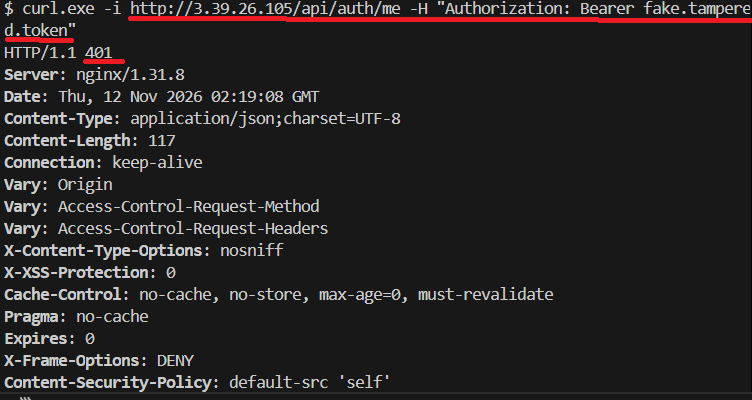
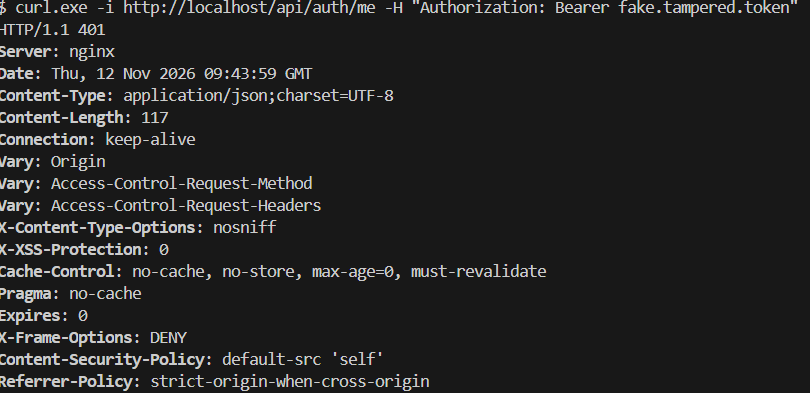
docs(security): 9.보안점검서 Backend 증빙 링크 연결 및 B-7·nginx 숨김 캡처 현행화
- B-3~B-9, B-12 표 및 6.4~6.6 상세에 증빙 이미지 링크 연결

Changed region(s): [[0.0, 0.0, 1.0, 1.0]]

diff --git a/docs/9.보안점검서.md b/docs/9.보안점검서.md
@@ -20,7 +20,7 @@
 | B-4  | Refresh Token 관리     | 폐기·재발급·DB 저장 방식 및 재사용 일괄 폐기 동작 확인                                                                                                                                                                 | 발견 → 조치 (6.5) | `RefreshTokenService.java`, `AuthService.java`: 원문 대신 SHA-256 해시(`token_hash`)만 DB 저장 및 재발급 시 기존 토큰 폐기(`revoked_at`, Rotation). 점검 중 폐기 토큰 재사용 감지 시 `BusinessException` 발생으로 `revokeAllByMemberId`가 롤백되던 결함과 컨테이너 UTC/KST 9시간 만료 오차 발견 → `noRollbackFor = BusinessException.class`, `flush()`, `LocalDateTime.now(KST)`로 수정                                                                                                                             | ☑ (DB `token_hash`·`revoked_at` 확인, `SecurityAuditTest`)<br>증거: [B-4-01](images/security/B-4/B-4-01_reuse-detected-401-and-log.png) |
 | B-5  | 로그인 Brute Force     | 동일 계정 연속 오입력 및 미등록 계정 로그인 시도                                                                                                                                                                       | 발견 → 조치 (6.4) | `AuthService.java`, `Member.java`: 1~4회 실패 시 `401`(`remainingAttempts: 4→1`), 5회 연속 실패 시 15분간 계정 잠금(`locked_until`, `423 AUTH_LOCKED`). 점검 중 예외 발생 시 `@Transactional` 롤백으로 실패 횟수가 DB에 누적되지 않던 결함과 컨테이너 UTC/KST 타임존 오차 발견 → `noRollbackFor` 지정 및 `LocalDateTime.now(KST)`로 수정. 미등록 계정도 `DUMMY_BCRYPT_HASH` 연산을 수행해 계정 열거·Timing Attack 방어                                                                                              | ☑ (브라우저·DB·로그 확인, `SecurityAuditTest`, `AuthServiceTest`)<br>증거: [B-5-01](images/security/B-5/B-5-01_login-fail-remaining-attempts.png), [B-5-02](images/security/B-5/B-5-02_login-fail-remaining-attempts.png), [B-5-03](images/security/B-5/B-5-03_login-fail-remaining-attempts.png), [B-5-04](images/security/B-5/B-5-04_login-fail-remaining-attempts.png), [B-5-05](images/security/B-5/B-5-05_account-locked-423.png) |
 | B-6  | CSRF                   | 세션+쿠키 방식 사용 시 CSRF 토큰 및 쿠키 속성 확인                                                                                                                                                                     | 미발견            | `SecurityConfig.java`, `AuthController.java`: 세션을 사용하지 않는 `STATELESS` 구조로 Access Token은 `Authorization: Bearer` 헤더로만 인증하여 CSRF 비활성화. Refresh Token 쿠키(`baton_rt`)는 `HttpOnly=true`, `SameSite=Strict`, 쿠키 범위를 `Path=/api/auth`로 한정하고 재발급은 `POST /api/auth/refresh`만 허용하여 교차 사이트 요청 위조 차단                                                                                                                                                                  | ☑ (DevTools 쿠키 속성 확인, `AuthControllerTest`)<br>증거: [B-6-01](images/security/B-6/B-6-01_cookie-httponly-samesite-strict.png) |
-| B-7  | 보안 설정 오류         | Actuator 노출(`/actuator/env`, `/health`), 상세 에러 노출, CORS 범위 점검                                                                                                                                              | 미발견            | `SecurityConfig.java`, `application.yml`: `exposure.include: health` 및 `show-details: never`로 최소 생존 상태만 공개하고 `/actuator/health` 외 모든 `/actuator/**`는 `.denyAll()` 차단. CORS는 `cors.allowed-origins` 환경변수 화이트리스트만 허용(외부 Origin `403 Invalid CORS request`). 백엔드 API 응답(`/api/*`) 기준 `X-Frame-Options: DENY`, `nosniff`, `CSP: default-src 'self'`, `Referrer-Policy` 헤더 적용                                                                                              | ☑ (`curl` 백엔드 `:8080` 직접 호출 `/actuator/env` 401·`health` 200, 프록시 CORS 403 확인)<br>증거: [B-7-01](images/security/B-7/B-7-01_cors-evil-origin-403.png) |
+| B-7  | 보안 설정 오류         | Actuator 노출(`/actuator/env`, `/health`), 상세 에러 노출, CORS 범위 점검                                                                                                                                              | 미발견            | `SecurityConfig.java`, `application.yml`: `exposure.include: health` 및 `show-details: never`로 최소 생존 상태만 공개하고 `/actuator/health` 외 모든 `/actuator/**`는 `.denyAll()` 차단. CORS는 `cors.allowed-origins` 환경변수 화이트리스트만 허용(외부 Origin `403 Invalid CORS request`). 백엔드 API 응답(`/api/*`) 기준 `X-Frame-Options: DENY`, `nosniff`, `CSP: default-src 'self'`, `Referrer-Policy` 헤더 적용                                                                                              | ☑ (`curl` 백엔드 `:8080` 직접 호출 `/actuator/env` 401·`health` 200, 프록시 CORS 403 확인)<br>증거: [B-7-01](images/security/B-7/B-7-01_cors-evil-origin-403.png), [B-7-02](images/security/B-7/B-7-02_actuator-health-env.png) |
 | B-8  | 예외 / 로그            | 비정상 JSON(`{broken_json}`) 전송 및 예외 발생 시 스택 트레이스 노출·상태코드 점검                                                                                                                                     | 발견 → 조치 (6.6) | `GlobalExceptionHandler.java`: 미처리 예외(`Exception.class`) 시 스택 트레이스는 서버 로그(`[SYSTEM_ERROR]`)에만 기록하고 클라이언트에는 일반 메시지만 반환. 점검 중 깨진 JSON 전송 시 `HttpMessageNotReadableException` 핸들러 누락으로 `400` 대신 `500 INTERNAL_ERROR`가 반환되던 결함 발견 → 전용 핸들러를 추가해 `400 VALIDATION_FAILED`로 응답하도록 수정                                                                                                                                                      | ☑ (`curl` 응답 스택트레이스 미노출 및 `GlobalExceptionHandlerTest` 400 확인)<br>증거: [B-8-01](images/security/B-8/B-8-01_broken-json-400-no-stacktrace.png), [B-8-02](images/security/B-8/B-8-02_500-no-stacktrace-code.png) |
 | B-9  | 감사 로그              | 로그인 성공/실패, 계정 잠금, 401/403 및 도메인 접근 거부 로깅·마스킹 확인                                                                                                                                              | 미발견            | `AuthService.java`, `RefreshTokenService.java`, `SecurityConfig.java`, `DocumentService.java`, `ChatStreamService.java`, `SourceRevalidator.java`: 인증 이벤트(`LOGIN_SUCCESS`, `LOGIN_FAILED`, `ACCOUNT_LOCKED`, `REFRESH_TOKEN_REUSE_DETECTED`, `401/403`) 및 도메인 이벤트(`DOC_ACCESS_DENIED`, `DOC_DOWNLOAD`, `SESSION_NOT_FOUND_OR_DENIED`, `SOURCE_FILTERED`)를 `[AUDIT]` 태그로 기록하고 이메일은 `AuthService.maskEmail()`로 마스킹(`s***@baton.local`) 처리                                               | ☑ (`docker logs` `[AUDIT]` 및 마스킹 확인, `AuthServiceTest`)<br>증거: [B-9-01](images/security/B-9/B-9-01_audit-logs-masked.png) |
 | B-10 | (권장) 파일 업로드     | 텍스트를 `.pdf`로 위장, `report.pdf.exe`, Burp로 Content-Type 위조, 12MB 파일, 파일명 `../../evil.docx`·`<script>a.docx`, 가짜 개인정보가 든 DOCX 업로드                                                               | 미발견            | `FileValidator` 4단계: ① 파일명 정제(경로·제어문자·금지문자 제거, 255자) ② 마지막 확장자 화이트리스트(pdf·docx) ③ Content-Type 확인 ④ Apache Tika 매직넘버<br>크기 3중 제한: nginx `client_max_body_size 10m` → Spring multipart 10MB → `FileValidator` 10MB<br>저장 경로·파일명 재생성: **해당 없음**(원본 파일을 디스크에 저장하지 않고 메모리로 AI 모듈에 전달)<br>AI 수집 단계에서 임베딩 전 개인정보 마스킹                                                                                                    | ☑ B-10-01~06<br>`FileValidatorTest` 12건<br>tika-core 3.2.2 상향 후 재실행: 동일 결과 확인([B-13-04](images/security/B-13/B-13-04_file-validator-test-after-upgrade.png))<br>증거: [B-10-00](images/security/B-10/B-10-00_curl-upload-summary.png), [B-10-01](images/security/B-10/B-10-01_fake-pdf-magic-400.png), [B-10-02](images/security/B-10/B-10-02_double-extension-400.png), [B-10-03](images/security/B-10/B-10-03_content-type-tamper-400.png), [B-10-04b](images/security/B-10/B-10-04b_file-validator-test.png), [B-10-05](images/security/B-10/B-10-05_web-capture.png), [B-10-06](images/security/B-10/B-10-06_pii-masked-count.png)                                                                                                                                                                                                                                                                                                                                                                                                                                                                                                                                                                                                                                                                                                                                             |
